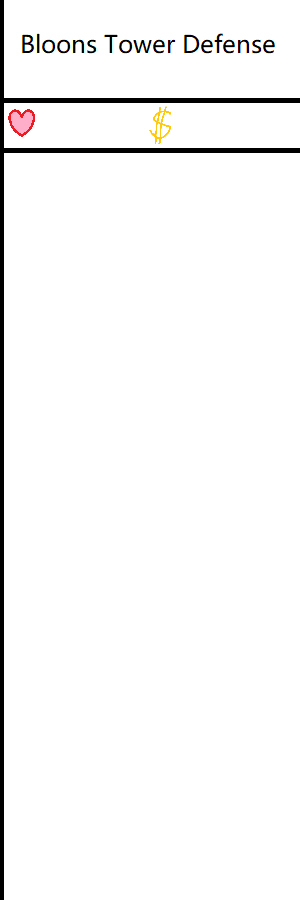
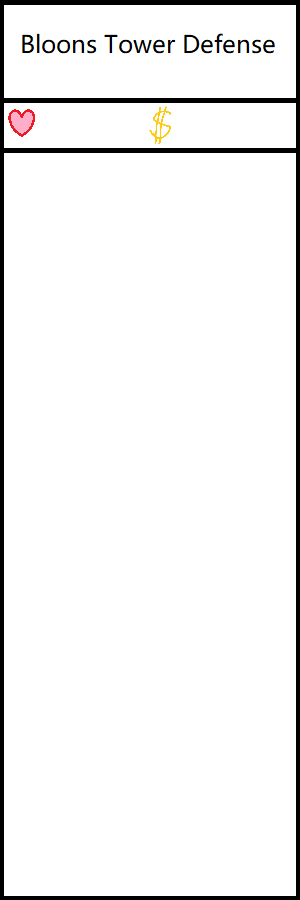
display a user interface showing the cost of towers on the right.

Changed region(s): [[0.0, 0.0, 1.0, 1.0]]

diff --git a/core/src/com/hongbao/bloons/BloonsTouhouDefense.java b/core/src/com/hongbao/bloons/BloonsTouhouDefense.java
@@ -3,6 +3,7 @@ package com.hongbao.bloons;
 import com.badlogic.gdx.ApplicationListener;
 import com.badlogic.gdx.Gdx;
 import com.badlogic.gdx.Input;
+import com.badlogic.gdx.graphics.Color;
 import com.badlogic.gdx.graphics.GL20;
 import com.badlogic.gdx.graphics.Texture;
 import com.badlogic.gdx.graphics.g2d.TextureRegion;
@@ -65,8 +66,7 @@ public class BloonsTouhouDefense implements ApplicationListener {
 	private void createMenu() {
 		Skin skin = new Skin(Gdx.files.internal("uiskins/uiskin.json"));
 
-		Drawable drawable = new TextureRegionDrawable(new TextureRegion(new Texture(Gdx.files.internal("img/ui/header.png"))));
-		ImageButton title = new ImageButton(drawable);
+		ImageButton title = new ImageButton(new TextureRegionDrawable(new TextureRegion(new Texture(Gdx.files.internal("img/ui/header.png")))));
 		title.setPosition(1500, 0);
 		stage.addActor(new RenderableImageButton(title, ZIndex.MENU_Z_INDEX));
 
@@ -91,6 +91,102 @@ public class BloonsTouhouDefense implements ApplicationListener {
 		});
 		healthLabel.addAction(Actions.repeat(RepeatAction.FOREVER, healthLabelAction));
 		stage.addActor(new RenderableLabel(healthLabel, ZIndex.MENU_ITEM_Z_INDEX));
+		
+		ImageButton purchaseReimu = new ImageButton(new TextureRegionDrawable(new TextureRegion(new Texture(Gdx.files.internal("img/ui/reimu_box.png")))));
+		purchaseReimu.setPosition(1504, 676);
+		stage.addActor(new RenderableImageButton(purchaseReimu, ZIndex.MENU_Z_INDEX));
+		
+		Label reimuCost = new Label(String.valueOf(GirlFactory.createReimu().getCost()), skin);
+		reimuCost.setPosition(1680, 700);
+		reimuCost.setFontScale(1.5f,1.5f);
+		reimuCost.addAction(Actions.repeat(RepeatAction.FOREVER, createNewCostLabelAction()));
+		stage.addActor(new RenderableLabel(reimuCost, ZIndex.MENU_ITEM_Z_INDEX));
+		
+		ImageButton purchaseYukari = new ImageButton(new TextureRegionDrawable(new TextureRegion(new Texture(Gdx.files.internal("img/ui/yukari_box.png")))));
+		purchaseYukari.setPosition(1504, 604);
+		stage.addActor(new RenderableImageButton(purchaseYukari, ZIndex.MENU_Z_INDEX));
+		
+		Label yukariCost = new Label(String.valueOf(GirlFactory.createYukari().getCost()), skin);
+		yukariCost.setPosition(1680, 628);
+		yukariCost.setFontScale(1.5f,1.5f);
+		yukariCost.addAction(Actions.repeat(RepeatAction.FOREVER, createNewCostLabelAction()));
+		stage.addActor(new RenderableLabel(yukariCost, ZIndex.MENU_ITEM_Z_INDEX));
+		
+		ImageButton purchaseMarisa = new ImageButton(new TextureRegionDrawable(new TextureRegion(new Texture(Gdx.files.internal("img/ui/marisa_box.png")))));
+		purchaseMarisa.setPosition(1504, 532);
+		stage.addActor(new RenderableImageButton(purchaseMarisa, ZIndex.MENU_Z_INDEX));
+		
+		Label marisaCost = new Label(String.valueOf(GirlFactory.createMarisa().getCost()), skin);
+		marisaCost.setPosition(1680, 556);
+		marisaCost.setFontScale(1.5f,1.5f);
+		marisaCost.addAction(Actions.repeat(RepeatAction.FOREVER, createNewCostLabelAction()));
+		stage.addActor(new RenderableLabel(marisaCost, ZIndex.MENU_ITEM_Z_INDEX));
+		
+		ImageButton purchaseAlice = new ImageButton(new TextureRegionDrawable(new TextureRegion(new Texture(Gdx.files.internal("img/ui/alice_box.png")))));
+		purchaseAlice.setPosition(1504, 460);
+		stage.addActor(new RenderableImageButton(purchaseAlice, ZIndex.MENU_Z_INDEX));
+		
+		Label aliceCost = new Label(String.valueOf(GirlFactory.createAlice().getCost()), skin);
+		aliceCost.setPosition(1680, 484);
+		aliceCost.setFontScale(1.5f,1.5f);
+		aliceCost.addAction(Actions.repeat(RepeatAction.FOREVER, createNewCostLabelAction()));
+		stage.addActor(new RenderableLabel(aliceCost, ZIndex.MENU_ITEM_Z_INDEX));
+		
+		ImageButton purchaseSakuya = new ImageButton(new TextureRegionDrawable(new TextureRegion(new Texture(Gdx.files.internal("img/ui/sakuya_box.png")))));
+		purchaseSakuya.setPosition(1504, 388);
+		stage.addActor(new RenderableImageButton(purchaseSakuya, ZIndex.MENU_Z_INDEX));
+		
+		Label sakuyaCost = new Label(String.valueOf(GirlFactory.createSakuya().getCost()), skin);
+		sakuyaCost.setPosition(1680, 412);
+		sakuyaCost.setFontScale(1.5f,1.5f);
+		sakuyaCost.addAction(Actions.repeat(RepeatAction.FOREVER, createNewCostLabelAction()));
+		stage.addActor(new RenderableLabel(sakuyaCost, ZIndex.MENU_ITEM_Z_INDEX));
+		
+		ImageButton purchaseRemilia = new ImageButton(new TextureRegionDrawable(new TextureRegion(new Texture(Gdx.files.internal("img/ui/remilia_box.png")))));
+		purchaseRemilia.setPosition(1504, 316);
+		stage.addActor(new RenderableImageButton(purchaseRemilia, ZIndex.MENU_Z_INDEX));
+		
+		Label remiliaCost = new Label(String.valueOf(GirlFactory.createRemilia().getCost()), skin);
+		remiliaCost.setPosition(1680, 340);
+		remiliaCost.setFontScale(1.5f,1.5f);
+		remiliaCost.addAction(Actions.repeat(RepeatAction.FOREVER, createNewCostLabelAction()));
+		stage.addActor(new RenderableLabel(remiliaCost, ZIndex.MENU_ITEM_Z_INDEX));
+		
+		ImageButton purchaseYoumu = new ImageButton(new TextureRegionDrawable(new TextureRegion(new Texture(Gdx.files.internal("img/ui/youmu_box.png")))));
+		purchaseYoumu.setPosition(1504, 244);
+		stage.addActor(new RenderableImageButton(purchaseYoumu, ZIndex.MENU_Z_INDEX));
+		
+		Label youmuCost = new Label(String.valueOf(GirlFactory.createYoumu().getCost()), skin);
+		youmuCost.setPosition(1680, 268);
+		youmuCost.setFontScale(1.5f,1.5f);
+		youmuCost.addAction(Actions.repeat(RepeatAction.FOREVER, createNewCostLabelAction()));
+		stage.addActor(new RenderableLabel(youmuCost, ZIndex.MENU_ITEM_Z_INDEX));
+		
+		ImageButton purchaseYuyuko = new ImageButton(new TextureRegionDrawable(new TextureRegion(new Texture(Gdx.files.internal("img/ui/yuyuko_box.png")))));
+		purchaseYuyuko.setPosition(1504, 172);
+		stage.addActor(new RenderableImageButton(purchaseYuyuko, ZIndex.MENU_Z_INDEX));
+		
+		Label yuyukoCost = new Label(String.valueOf(GirlFactory.createYuyuko().getCost()), skin);
+		yuyukoCost.setPosition(1680, 196);
+		yuyukoCost.setFontScale(1.5f,1.5f);
+		yuyukoCost.addAction(Actions.repeat(RepeatAction.FOREVER, createNewCostLabelAction()));
+		stage.addActor(new RenderableLabel(yuyukoCost, ZIndex.MENU_ITEM_Z_INDEX));
+	}
+	
+	private RunnableAction createNewCostLabelAction() {
+		// Apparently they don't like sharing
+		RunnableAction costLabelAction = new RunnableAction();
+		costLabelAction.setRunnable(() -> {
+			Label label = (Label)costLabelAction.getActor();
+			int cost = Integer.parseInt(label.getText().toString());
+			
+			if (cost <= player.getMoney()) {
+				label.setColor(Color.WHITE);
+			} else {
+				label.setColor(Color.RED);
+			}
+		});
+		return costLabelAction;
 	}
 	
 	public void createMap() {
@@ -163,9 +259,11 @@ public class BloonsTouhouDefense implements ApplicationListener {
 		stage.draw();
 		
 		if (map.getSelectedGirl() != null) {
-			// Draw the radius of sight
+			// Draw the range of collision, the range of sight, and range of... well, range
 			shapeRenderer.begin(ShapeRenderer.ShapeType.Line);
+			shapeRenderer.circle(map.getSelectedGirl().getCenterX(), map.getSelectedGirl().getCenterY(), map.getSelectedGirl().getCollisionRadius());
 			shapeRenderer.circle(map.getSelectedGirl().getCenterX(), map.getSelectedGirl().getCenterY(), map.getSelectedGirl().getGirl().getVisualRange());
+			shapeRenderer.circle(map.getSelectedGirl().getCenterX(), map.getSelectedGirl().getCenterY(), map.getSelectedGirl().getGirl().getRange());
 			shapeRenderer.end();
 		}
 	}
